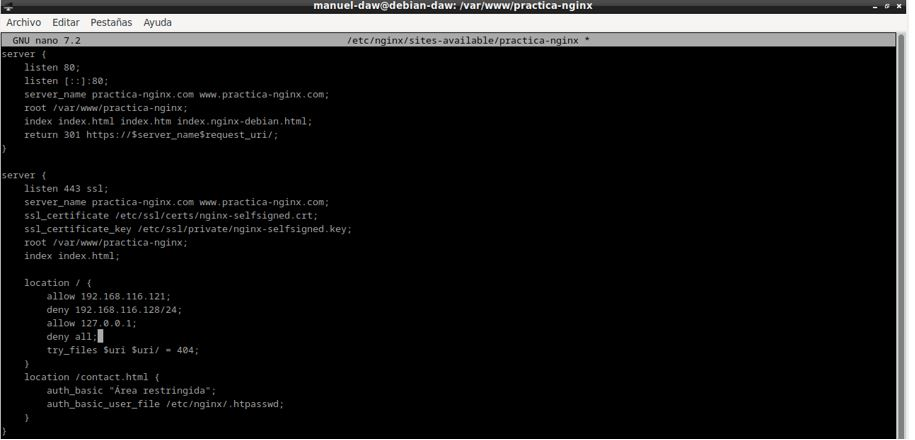
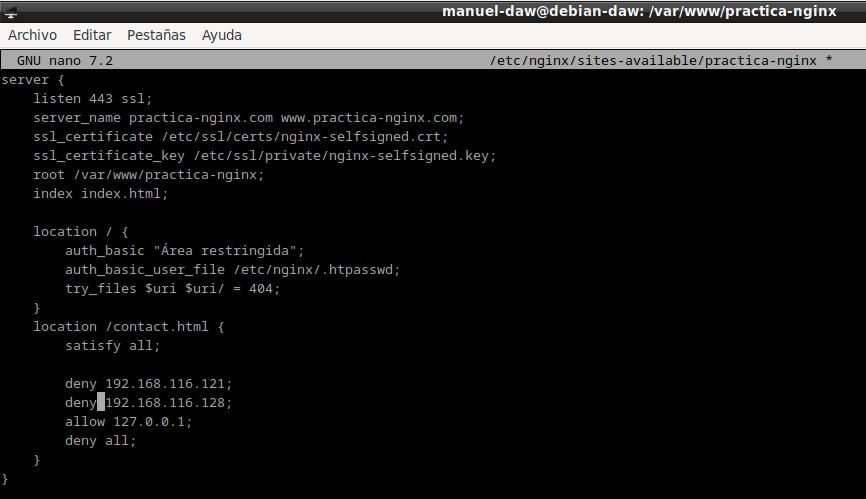
Actualización Final Práctica 2.2

Changed region(s): [[0.0, 0.0, 1.0, 1.0], [0.0312, 0.6205, 0.3118, 0.9455], [0.0, 0.9455, 0.0312, 1.0]]

diff --git a/docs/practica2-2/index.md b/docs/practica2-2/index.md
@@ -12,27 +12,34 @@
 
 ***Paquetes necesarios para realizar la práctica.***
 
-Utiliza el comando **dpkg -l | grep openssl**, en caso de que el resultado no muestre el paquete **openssl**, instalalo con el comando **sudo apt install openssl**
+Utiliza el comando **dpkg -l | grep openssl**, en caso de que el resultado no muestre el paquete **openssl**, 
+instalalo con el comando **sudo apt install openssl**
 
 ![Paquetes necesarios para empezar la práctica](./img/Captura-1.JPG)
 
-El comando **dpkg -l** lista todos los paquetes instalados en el sistema con información detallada, mientras que **grep openssl** busca el nombre del paquete openssl dentro de nuestro sistema.
+El comando **dpkg -l** lista todos los paquetes instalados en el sistema con información detallada, mientras que 
+**grep openssl** busca el nombre del paquete openssl dentro de nuestro sistema.
 
-### 1. Creación de usuarios y contraseñas para el acceso web
+### Creación de usuarios y contraseñas para el acceso web
 
-A continuación, vamos a crear los usuarios de nuestra página web con sus respetivas contraseñas, las cuales se guardarán encriptada en un fichero llamado **.htpasswd**
+A continuación, vamos a crear los usuarios de nuestra página web con sus respetivas contraseñas, las cuales se 
+guardarán encriptada en un fichero llamado **.htpasswd**
 
-Utiliza el comando **sudo sh -c "echo -n 'usuario-web:' >> /etc/nginx/.htpasswd**, el cual creara el fichero **.htpasswd** y le agregará el nombre del usuario.
+Utiliza el comando **sudo sh -c "echo -n 'usuario-web:' >> /etc/nginx/.htpasswd**, el cual creara el fichero 
+**.htpasswd** y le agregará el nombre del usuario.
 
 ![Creamos carpeta .htpasswd y adjuntamos usuario](./img/Captura-2.JPG)
 
-Haz lo mismo con las contraseñas, para ello usa el comando **sudo sh -c "openssl passwd -apr1 >> /etc/nginx/.htpasswd"**, este comando será el encargado de guardar las contraseñas encriptadas, gracias al **openssl passwd -apr1**.
+Haz lo mismo con las contraseñas, para ello usa el comando **sudo sh -c "openssl passwd -apr1 >> /etc/nginx/.htpasswd"**, 
+este comando será el encargado de guardar las contraseñas encriptadas, gracias al **openssl passwd -apr1**.
 
 ![Adjuntamos contraseña](./img/Captura-3.JPG)
 
 - Crea dos usuarios, uno con tu nombre y otro con tu primero apellido.
 
-Debes de realizar el mismo proceso que antes, pero ahora crea un usuario con tu propio nombre, comando  **sudo sh -c "echo -n 'tu-nombre:' >> /etc/nginx/.htpasswd** para añadir al usuario y **sudo sh -c "openssl passwd -apr1 >> /etc/nginx/.htpasswd"** para la contraseña.
+Debes de realizar el mismo proceso que antes, pero ahora crea un usuario con tu propio nombre, comando  
+**sudo sh -c "echo -n 'tu-nombre:' >> /etc/nginx/.htpasswd** para añadir al usuario y 
+**sudo sh -c "openssl passwd -apr1 >> /etc/nginx/.htpasswd"** para la contraseña.
 
 ![Captura creación de usuairo autentificado](./img/Captura-4.JPG)
 
@@ -42,23 +49,28 @@ Usuario con mi apellido.
 
 - Comprueba que el usuario y la contraseña aparecen cifrados en el fichero:
 
-Para ello debemos revisar el archivo donde se almacenan las contraseña de nuestro servidor, en mi caso voy a utilizar un comando que visualiza lo que hay dentro del archivo sin necesidad de abrirlo con un editor, comando **sudo cat /etc/nginx/.htpasswd**
+Para ello debemos revisar el archivo donde se almacenan las contraseña de nuestro servidor, en mi caso voy a utilizar un 
+comando que visualiza lo que hay dentro del archivo sin necesidad de abrirlo con un editor, comando **sudo cat /etc/nginx/.htpasswd**
 
 ![Captura que muestra los usuarios y sus contraseñas encriptadas](./img/Captura-6.JPG)
 
-### 2. Configurando el servidor Nginx para usar una autentificación básica
+### Configurando el servidor Nginx para usar una autentificación básica
 
-Añadimos la autenticación en el fichero **/etc/nginx/sites-availables/nombre-web**, para ello utilizamos la directiva **auth_basic** que solicita la autenticación a los usuarios que intentar acceder a un recurso protegido y enlazamos el fichero **.htpasswd** con los usuarios y contraseñas a la directiva **auth_basic_user_file** 
+Añadimos la autenticación en el fichero **/etc/nginx/sites-availables/nombre-web**, para ello utilizamos la 
+directiva **auth_basic** que solicita la autenticación a los usuarios que intentar acceder a un recurso protegido 
+y enlazamos el fichero **.htpasswd** con los usuarios y contraseñas a la directiva **auth_basic_user_file** 
 
 ![Autenticación en la raíz del servidor](./img/Captura-7.JPG)
 
-Reiniciamos el servidor con el comando **sudo systemctl restart nginx** para así aplicar los cambios del archivo de configuración **/etc/nginx/sites-available/nombre-web** y comprobamos que no haya ningún error con un **sudo systemctl status nginx**
+Reiniciamos el servidor con el comando **sudo systemctl restart nginx** para así aplicar los cambios del archivo de 
+configuración **/etc/nginx/sites-available/nombre-web** y comprobamos que no haya ningún error con un **sudo systemctl status nginx**
 
-![Captura 8](./img/Captura-8.JPG)
+![Reiniciamos y comprobamos estado del servidor](./img/Captura-8.JPG)
 
-### 3. Probando la nueva configuración
+### Probando la nueva configuración
 
-**Comprobación 1**: Comprueba desde tu máquina física/anfritiona que puedes acceder a https://nombre-sitio-web y que se solicita la autenticación.
+**Comprobación 1**: Comprueba desde tu máquina física/anfritiona que puedes acceder a https://nombre-sitio-web y que se 
+solicita la autenticación.
 
 Entra en la página web e introduce un usuario incorrecto.
 
@@ -68,7 +80,7 @@ El resultado será que te volverán a pedir las credenciales de acceso.
 
 ![Inicio de Sesión Incorrecto](./img/Captura-10.JPG)
 
-Ahora metemos un usuario y contraseña correcto, es decir, que están dentro del fichero **.htpasswd** 
+Ahora metemos un usuario que esté dentro del fichero **.htpasswd** con su correspondiente contraseña correcta.
 
 ![Inicio de Sesión Correcto](./img/Captura-11.JPG)
 
@@ -76,9 +88,14 @@ Como ves nos deja acceder a la página web.
 
 ![Inicio de Sesión Correcto](./img/Captura-12.JPG)
 
-**Comprobación 2**: Comprueba que si decides cancelar la autenticación, se te negará el acceso al sitio con un error. ¿Qué error es?
+Esta configuración hace que con un solo acceso correcto, ya no tengas que volver a loguearte más en ese navegador, por lo que no 
+es demasiado segura.
 
-**Error 401: Authorization required**, es un código de estado HTTP que indica que la solicitud realizada por el cliente no tiene las credenciales de autenticación necesarias para acceder al recurso solicitado.
+**Comprobación 2**: Comprueba que si decides cancelar la autenticación, se te negará el acceso al sitio con un error. 
+¿Qué error es?
+
+**Error 401: Authorization required**, es un código de estado HTTP que indica que la solicitud realizada por el cliente no tiene las 
+credenciales de autenticación necesarias para acceder al recurso solicitado.
 
 ![Cancelar autenticación](./img/Captura-13.JPG)
 
@@ -86,11 +103,15 @@ Como ves nos deja acceder a la página web.
 
 **Tarea 1**
 
-- Intenta entrar primero con un usuario erróneo y luego con otro correcto. Puedes ver todos los sucesos y registros en los logs access.log y error.log
+- Intenta entrar primero con un usuario erróneo y luego con otro correcto. Puedes ver todos los sucesos y registros en los 
+logs access.log y error.log
 
-- Adjunta una captura de pantalla de los logs donde se vea que intentas entrar primero con un usuario inválido y con otro válido. Indica dónde podemos ver los errores de usuario inválido o no encontrado, así como donde podemos ver el número de error que os aparecía antes
+- Adjunta una captura de pantalla de los logs donde se vea que intentas entrar primero con un usuario inválido y con otro válido. 
+Indica dónde podemos ver los errores de usuario inválido o no encontrado, así como donde podemos ver el número de error que os aparecía antes
 
-Archivo log error.log, para verlo he utilizado el comando **sudo cat /var/log/nginx/access.log**, y he marcado con rojo los últimos errores generados por usuarios incorrectos, aunque sería más correcto utilizar **sudo tail -n 3 /var/log/access.log**, esto proporcionaría solo los 3 últimos errores generados en **error.log** haciendo la salida por pantalla mucho más limpia.
+Archivo log error.log, para verlo he utilizado el comando **sudo cat /var/log/nginx/access.log**, y he marcado con rojo los últimos 
+errores generados por usuarios incorrectos, aunque sería más correcto utilizar **sudo tail -n 3 /var/log/access.log**, esto proporcionaría 
+solo los 3 últimos errores generados en **error.log** haciendo la salida por pantalla mucho más limpia.
 
 ![Archivo log error.log](./img/Captura-14.JPG)
 
@@ -100,9 +121,13 @@ Archivo log access.log, comando **sudo tail -n 5 /var/log/nginx/access.log**
 
 **Tarea 2**
 
-- Borra las dos líneas que hacen referencia a la autenticación básica en el location del directorio raíz. Tras ello, añade un nuevo location debajo con la autenticación básica para el archivo/sección contact.html únicamente.
+- Borra las dos líneas que hacen referencia a la autenticación básica en el location del directorio raíz. Tras ello, añade un nuevo location 
+debajo con la autenticación básica para el archivo/sección contact.html únicamente.
 
-Lo primero de todo es crear el archivo **contact.html**, para ello voy a copiar el **index.html** para crear el nuevo archivo **contact.html** y voy a cambiar un poco el fichero, comandos: **sudo cp ./index.html contact.html** y **sudo nano contact.html**.
+Lo primero de todo es crear el archivo **contact.html**, para ello voy a copiar el **index.html** para meterlo dentro del archivo 
+**contact.html** y voy a cambiar un poco el fichero, comandos: **sudo cp ./index.html contact.html** y **sudo nano contact.html**.
+
+(A pesar de que en la imagen se ve como creo el archivo **contacto.html** en vez de **contact.html**, posteriormente modifico su nombre)
 
 ![Creamos la página contacto.html](./img/Captura-16.JPG)
 
@@ -112,13 +137,15 @@ Modificamos el archivo de configuración, quitando la autenticación en la raíz
 
 Después de esto, reiniciamos el servidor Nginx para aplicar los cambios, **sudo systemctl restart nginx**.
 
-Probamos los cambios en nuestro equipo anfitrión, accediendo a **contact.html**, como se puede apreciar, debido a los cambios en el archivo de configuración, al entrar nos pide la autenticación.
+Probamos los cambios en nuestro equipo anfitrión, accediendo a **contact.html**, como se puede apreciar, debido a los cambios en el 
+archivo de configuración, al entrar nos pide la autenticación.
 
 ![Accediendo a contact.html con autentificación](./img/Captura-18.JPG)
 
 ### Combinación de la autenticación básica con la restricción de acceso por IP.
 
-La autenticación básica HTTP puede ser combinada de forma efectiva con la restricción de acceso por dirección IP. Se pueden implementar dos escenario:
+La autenticación básica HTTP puede ser combinada de forma efectiva con la restricción de acceso por dirección IP. Se pueden 
+implementar dos escenario:
 
 - Un usuario debe estar ambas cosas, autenticado y tener una IP válida
 
@@ -126,9 +153,16 @@ La autenticación básica HTTP puede ser combinada de forma efectiva con la rest
 
 Veamos cómo lo haríamos:
 
-1. Como permitir o denegar acceso sobre una IP concreta (directivas allow y deny, respectivamente). Dentro del block server o archivo de configuración del dominio web, que recordad está en el directorio **sites-available**:
+1. Como permitir o denegar acceso sobre una IP concreta (directivas allow y deny, respectivamente). Dentro del block server o 
+archivo de configuración del dominio web, que recordad está en el directorio **sites-available**:
 
-En este primer caso, voy a permitir el acceso a la página web al cliente con la IP 192.168.116.121, pero el acceso estará rechazado para todos los demás, tanto en **index.html** como en **contact.html**
+He cambiado de red, por eso cambiaron mis IPs, el servidor ahora tiene la IP 192.168.116.128, si te pasa algo parecido solo cambia la 
+IP del archivo hosts y añade las nuevas IPs al archivo de configuración del servidor.
+
+En este primer caso, voy a permitir el acceso a la página web al cliente con la IP 192.168.116.121 , el acceso estará rechazado para 
+todos los demás, tanto en **index.html** como en **contact.html**. Si permitiese la puerta de enlace de mi red con la directiva 
+**allow mi-red/24;** estaría permitiendo el acceso a todo dispositivo de mi red local que tuviese configurado en el archivo **hosts** 
+el DNS del servidor.
 
 ![Debe tener IP válida](./img/Captura-19.JPG)
 
@@ -136,13 +170,20 @@ Haz un restart para guardar los cambios.
 
 2. Combinar la restricción IP y la autenticación HTTP con la directiva satisfy.
 
-En este caso, la directiva **satisfy** nos permite definir si queremos el acceso para todo tipo de usuarios, si debe tener una IP válida o usuario válido o si ambas cosas deben ser válidas para acceder, podemos combinarlo con las directivas **deny** y **allow** para tener más control.
+En este caso, la directiva **satisfy** nos permite definir si queremos el acceso para todo tipo de usuarios, si debe tener una IP 
+válida o usuario válido o si ambas cosas deben ser válidas para acceder, podemos combinarlo con las directivas **deny** y **allow** 
+para tener más control.
+
+En mi caso, he usado estas directivas para permitir a todos los usuarios de mi subred menos el servidor, acceder a la página web, 
+siempre y cuando tengan configurado el DNS en el archivo **hosts** (se hizo en la práctica anterior), para ello he añadido mi puerta 
+de enlace como IPs permitidas.
 
 ![Debe tener IP y usuario válido](./img/Captura-20.JPG)
 
 ### Tareas (2)
 
-**Tarea 1** - Configura Nginx para que no deje acceder con la IP de la máquina anfitriona al directorio raíz de una de tus dos webs. Modifica su server block o archivo de configuración. Comprueba como se deniega el acceso:
+**Tarea 1** - Configura Nginx para que no deje acceder con la IP de la máquina anfitriona al directorio raíz de una de tus dos webs. 
+Modifica su server block o archivo de configuración. Comprueba como se deniega el acceso:
 
 Accede al archivo de configuración **/etc/nginx/sites-available/sitio-web**
 
@@ -150,24 +191,136 @@ Accede al archivo de configuración **/etc/nginx/sites-available/sitio-web**
 
 - Muestra la página de error en el navegador.
 
-**Error 403 Forbidden**, este código de estado HTTP indica que el servidor ha entendido la solicitud del cliente, pero se niega a autorizarla, es decir, el cliente está autenticado pero no tiene permisos para acceder.
+Primero entramos a la página web principal y comprobamos que funciona correctamente.
 
-![Error 403](./img/Captura-22.JPG)
+![Entramos a la web](./img/Captura-22.JPG)
+
+Ahora accedemos a **contact.html**
+
+Nos aparecerá **Error 403 Forbidden**, este código de estado HTTP indica que el servidor ha entendido la solicitud del cliente, pero se 
+niega a autorizarla, es decir, el cliente está autenticado pero no tiene permisos para acceder.
+
+![Error 403](./img/Captura-23.JPG)
 
 - Muestra el mensaje de error de error.log, comando: **sudo tail -n 1 /var/log/nginx/error.log**
 
-![Imprimimos por pantalla archivo error.log](./img/Captura-23.JPG)
+![Imprimimos por pantalla archivo error.log](./img/Captura-24.JPG)
 
-**Tarea 2** - Configura Nginx para que desde tu máquina anfitriona se tenga que tener tanto una IP válida como un usuario válido, ambas cosas a la vez, y comprueba que sí puede acceder sin problemas.
+**Tarea 2** - Configura Nginx para que desde tu máquina anfitriona se tenga que tener tanto una IP válida como un usuario válido, ambas 
+cosas a la vez, y comprueba que sí puede acceder sin problemas.
 
-Modificamos de nuevo el archivo de configuración **/etc/nginx/sites-available/sitio-web**, esta vez con la directiva **satisfy all** que hace que tengamos que tener tanto IP como autenticación correcta, para acceder a la página web, así que añade tu IP dentro de **location** usando la directiva **allow**
+Modificamos de nuevo el archivo de configuración **/etc/nginx/sites-available/sitio-web**, esta vez con la directiva **satisfy all** que 
+hace que tengamos que tener tanto IP como autenticación correcta, para acceder a la página web, así que añade tu IP dentro de **location** 
+usando la directiva **allow**
 
-![Configuramos archivo de configuración](./img/Captura-24.JPG)
+![Configuramos archivo de configuración](./img/Captura-25.JPG)
+
+El resultado de esto es que debemos tener una IP válida (es decir, dentro de nuestra subred) y que la autenticación se realice correctamente.
+
+![Acceso desde index.html](./img/Captura-26.JPG)
+
+Lo mismo ocurrirá en **contact.html**, ya que la configuración de este también está en la raíz del proyecto.
+
+![Acceso desde contact.html](./img/Captura-27.JPG)
 
 Reinicia el servidor y haz una prueba de acceso.
 
-![Prueba autenticación](./img/Captura-25.JPG)
+![Resultado](./img/Captura-28.JPG)
 
-Resultado con usuario y contraseña correcta.
+Si quisieramos que nadie en tu red tuviera acceso simplemente cambia el **allow** por **deny**.
 
-![Resultado](./img/Captura-26.JPG)
+**Cuestión 1**
+
+Supongamos que yo soy el cliente con la IP 172.1.10.15 e intento acceder al directorio web_muy_guay de mi sitio web, equivocándome al poner 
+el usuario y contraseña. ¿Podré acceder?¿Por qué?
+
+No, debido a que la directiva satisfy all necesita que las credenciales sean las correctas y la IP válida, en este caso solo se cumple uno 
+de los dos requisitos, por lo que no podrías acceder. 
+
+```
+    location /web_muy_guay {
+    #...
+    satisfy all;    
+    deny  172.1.10.6;
+    allow 172.1.10.15;
+    allow 172.1.3.14;
+    deny  all;
+    auth_basic "Cuestión final 1";
+    auth_basic_user_file conf/htpasswd;
+}
+```
+
+**Cuestión 2**
+
+ask "Cuestión 1" Supongamos que yo soy el cliente con la IP 172.1.10.15 e intento acceder al directorio web_muy_guay de mi sitio web, 
+introduciendo correctamente usuario y contraseña. ¿Podré acceder?¿Por qué?
+
+Si, ya que cumples los dos requisitos, IP y autenticación válidos.
+
+```
+   location /web_muy_guay {
+    #...
+    satisfy all;    
+    deny  all;
+    deny  172.1.10.6;
+    allow 172.1.10.15;
+    allow 172.1.3.14;
+
+    auth_basic "Cuestión final 2: The revenge";
+    auth_basic_user_file conf/htpasswd;
+} 
+```
+
+**Cuestión 3**
+
+Supongamos que yo soy el cliente con la IP 172.1.10.15 e intento acceder al directorio web_muy_guay de mi sitio web, introduciendo 
+correctamente usuario y contraseña. ¿Podré acceder?¿Por qué?
+
+En el caso de la directiva **satisfy any**, en principio, el cumplimiento de cualquiera de las condiciones permitiría el acceso a la web. Sin embargo, dado que la dirección IP está denegada y esta condición tiene prioridad sobre la autenticación, el acceso será restringido.
+
+```
+    location /web_muy_guay {
+    #...
+    satisfy any;    
+    deny  172.1.10.6;
+    deny 172.1.10.15;
+    allow 172.1.3.14;
+
+    auth_basic "Cuestión final 3: The final combat";
+    auth_basic_user_file conf/htpasswd;
+}
+```
+
+**Cuestión 4**
+
+A lo mejor no sabéis que tengo una web para documentar todas mis excursiones espaciales con Jeff, es esta: Jeff Bezos y yo
+
+Supongamos que quiero restringir el acceso al directorio de proyectos porque es muy secreto, eso quiere decir añadir autenticación 
+básica a la URL:Proyectos
+
+Completa la configuración para conseguirlo:
+
+```
+    server {
+        listen 80;
+        listen [::]:80;
+        root /var/www/freewebsitetemplates.com/preview/space-science;
+        index index.html index.htm index.nginx-debian.html;
+        server_name freewebsitetemplates.com www.freewebsitetemplates.com;
+        location              {
+
+            try_files $uri $uri/ =404;
+        }
+    }
+```
+
+Tendríamos que añadir un nuevo **location** con las líneas correspondientes a la autenticación:
+
+```
+    {
+        location /Proyectos {
+            auth_basic "Área restringida";
+            auth_basic_user_file /etc/nginx/.htpasswd;  
+        }
+    }
+```
